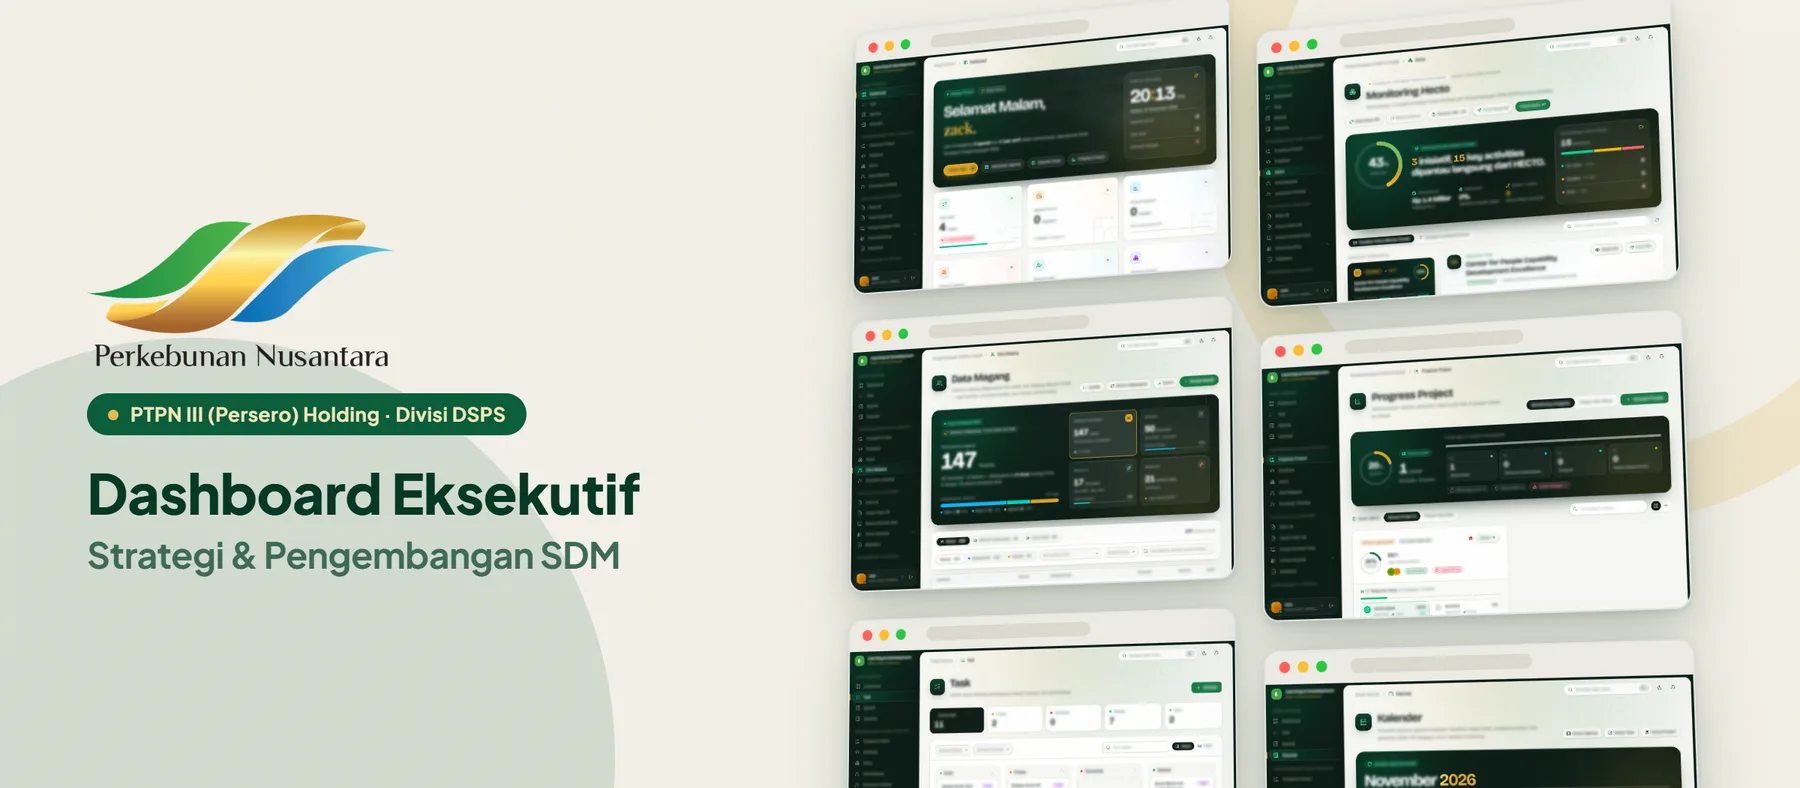
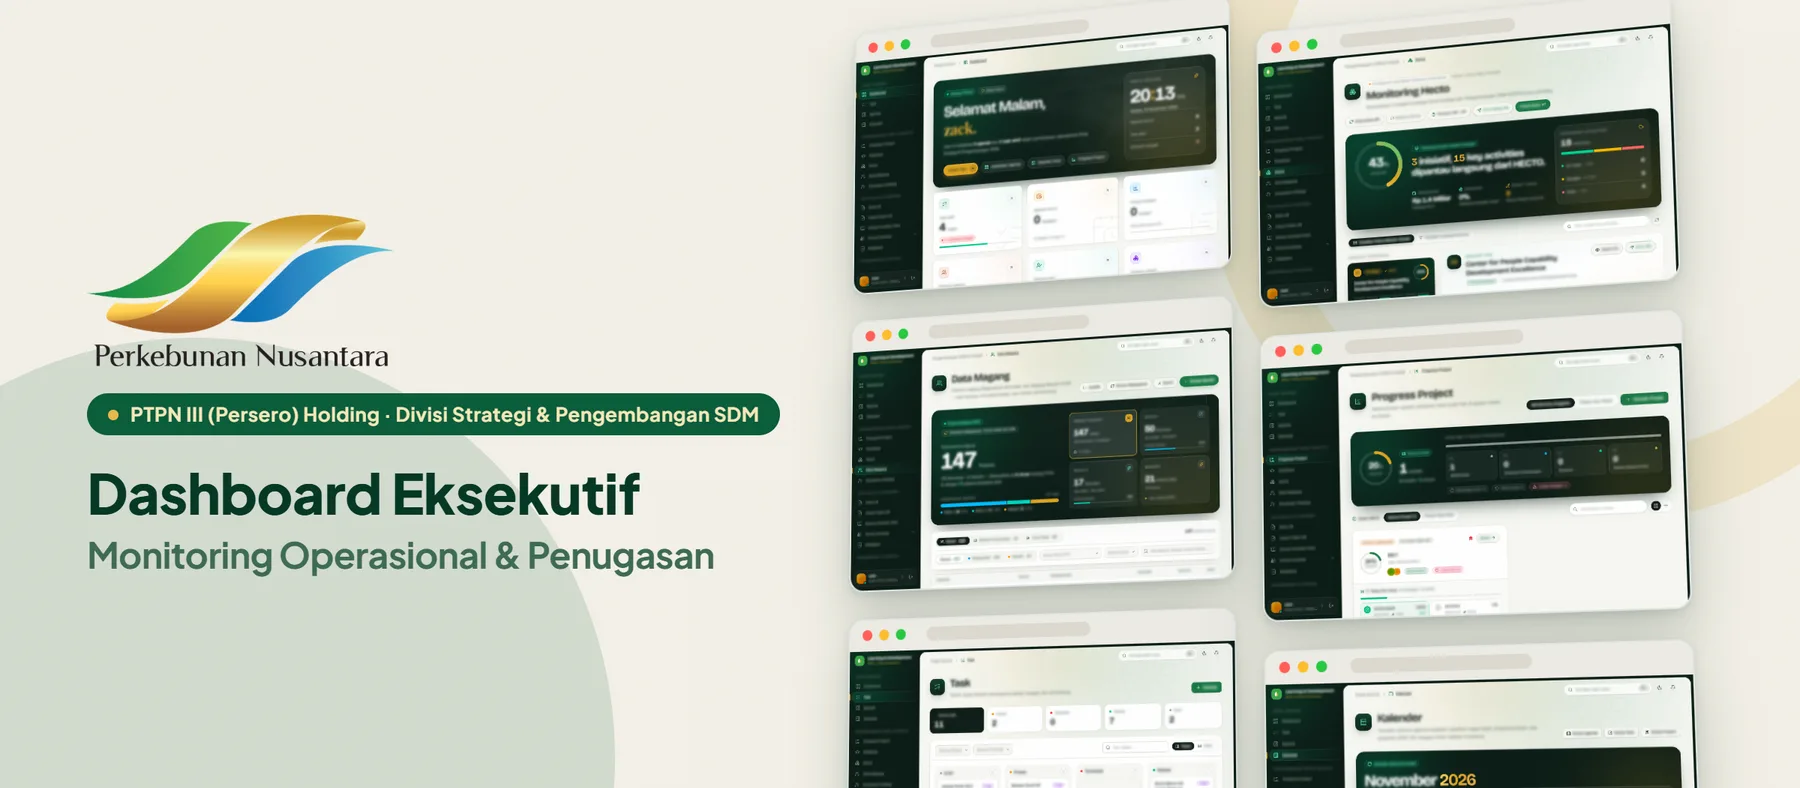
feat(home): PTPN projects on homepage, one-line work heading
- Add Dashboard Eksekutif DSPS, Portal LM Entitas and Rekap Magang
  to the stacked project cards (7 total), anchoring their wide covers
  to the left so the logo and title stay visible when cropped.
- SectionHead gains a `wide` variant: the title spans the full grid
  and never wraps, so "Yang sudah dikerjakan." runs in one line.
- DSPS cover now reads "Divisi Strategi & Pengembangan SDM".

Changed region(s): [[0.0311, 0.6701, 0.4044, 0.731], [0.2489, 0.4873, 0.4356, 0.5787]]

diff --git a/src/components/home/homeData.js b/src/components/home/homeData.js
@@ -51,6 +51,48 @@ export const WORK = [
     to: '/playground',
   },
   {
+    id: 'dsps-ptpn3',
+    title: 'Dashboard Eksekutif',
+    subtitle: 'DSPS PTPN III',
+    kind: 'Dasbor enterprise',
+    summary:
+      'Pusat kendali Divisi Strategi & Pengembangan SDM PTPN III Holding: tugas dan penanggung jawabnya, agenda dan kalender terpadu, progres proyek strategis, inisiatif HECTO, data magang, serta repositori SOP.',
+    tech: ['React 19', 'TypeScript', 'Supabase', 'Tailwind v4'],
+    figure: '09.00',
+    figureLabel: 'pengingat tugas otomatis via WhatsApp tiap hari kerja',
+    image: '/projects/dashboard-dsps-ptpn3.webp',
+    imagePos: 'left center', // kartu desktop memotong cover lebar; jaga logo & judul tetap terlihat
+    to: '/projects',
+  },
+  {
+    id: 'lm-entitas',
+    title: 'Portal LM Entitas',
+    subtitle: 'PTPN Group',
+    kind: 'Portal pelaporan',
+    summary:
+      'Anak perusahaan mengisi Laporan Manajemen bulanan, holding meninjau dan mengonsolidasikannya. Masa pengisian dijadwalkan dan dikunci per bulan, hak aksesnya ditegakkan langsung di database.',
+    tech: ['React 19', 'TypeScript', 'Supabase RLS', 'SheetJS'],
+    figure: 'Bulanan',
+    figureLabel: 'siklus isi, tinjau, lalu kunci per entitas',
+    image: '/projects/portal-lm-entitas-ptpn.webp',
+    imagePos: 'left center', // kartu desktop memotong cover lebar; jaga logo & judul tetap terlihat
+    to: '/projects',
+  },
+  {
+    id: 'rekap-magang',
+    title: 'Rekap Magang',
+    subtitle: 'PTPN Group',
+    kind: 'Dasbor data',
+    summary:
+      'Rekap penyerapan peserta Magenta BUMN, Magang Kemnaker, dan Magang Mandiri. Tiap entitas mengedit datanya sendiri, dan semuanya tersinkron dua arah dengan Google Sheets.',
+    tech: ['Next.js 16', 'Google Sheets API', 'Recharts'],
+    figure: '27',
+    figureLabel: 'unit kerja di 11 entitas dalam satu rekap',
+    image: '/projects/rekap-magang-ptpn.webp',
+    imagePos: 'left center', // kartu desktop memotong cover lebar; jaga logo & judul tetap terlihat
+    to: '/projects',
+  },
+  {
     id: 'sigma',
     title: 'SIGMA BPJSTK',
     subtitle: 'monitoring MBKM',

diff --git a/src/components/home/StackCards.jsx b/src/components/home/StackCards.jsx
@@ -21,7 +21,13 @@ function Card({ project, index, total, progress }) {
       <motion.div style={{ scale }} className="h-stack__scale">
         <Link to={project.to} className="h-card" onMouseEnter={playHover} onClick={playClick}>
           <div className="h-card__img">
-            <img src={project.image} alt={`${project.title} — ${project.subtitle}`} loading="lazy" decoding="async" />
+            <img
+              src={project.image}
+              alt={`${project.title} — ${project.subtitle}`}
+              loading="lazy"
+              decoding="async"
+              style={project.imagePos ? { objectPosition: project.imagePos } : undefined}
+            />
           </div>
           <div className="h-card__info">
             <div className="h-card__top">
@@ -61,7 +67,7 @@ export default function StackCards() {
   return (
     <section className="h-sec" id="work">
       <div className="h-wrap">
-        <SectionHead index="03" label="Karya pilihan" aside={`${WORK.length} proyek — web, mobile, AI`}>
+        <SectionHead wide index="03" label="Karya pilihan" aside={`${WORK.length} proyek — web, mobile, AI`}>
           Yang sudah <em>dikerjakan</em>.
         </SectionHead>
 

diff --git a/src/components/home/SectionHead.jsx b/src/components/home/SectionHead.jsx
@@ -5,10 +5,11 @@ const EASE = [0.16, 1, 0.3, 1];
 // Kepala section bergaya katalog: (nomor) — label di kiri, judul serif di kanan.
 // whileInView dipasang di <h2> (bukan di teks yang digeser), karena teks yang
 // dimulai di luar area overflow:hidden tidak pernah dianggap "terlihat".
-export default function SectionHead({ index, label, children, aside }) {
+// wide: judul panjang memakai lebar penuh grid dan tidak boleh patah baris.
+export default function SectionHead({ index, label, children, aside, wide = false }) {
   return (
     <motion.div
-      className="h-grid h-head"
+      className={`h-grid h-head${wide ? ' h-head--wide' : ''}`}
       initial="hidden"
       whileInView="show"
       viewport={{ once: true, amount: 0.5 }}

diff --git a/src/components/home/home.css b/src/components/home/home.css
@@ -78,6 +78,13 @@
 }
 .h-head__title em { font-style: italic; color: var(--accent); }
 .h-head__aside { text-align: right; padding-bottom: 0.9em; }
+/* Judul panjang: satu baris selebar grid. Lebarnya ≈ 10.3× ukuran font,
+   jadi batas 8.4vw menjaga teks tetap muat di layar sempit. */
+.h-head--wide .h-head__row { grid-column: 1 / -1; }
+.h-head--wide .h-head__title {
+  white-space: nowrap;
+  font-size: min(clamp(2.7rem, 7vw, 6.4rem), 8.4vw);
+}
 
 /* ---------- Ticker ---------- */
 .h-ticker {
